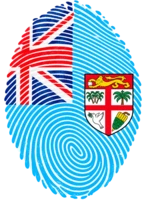
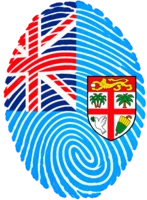
Fiji headers: new flag fingerprint emblem

diff --git a/s.html b/s.html
@@ -309,7 +309,7 @@
               if (!h) return;
               var hero = d.createElement('div'); hero.className = 'tph-hero';
               var art = d.createElement('span'); art.className = 'tph-art'; art.setAttribute('aria-hidden', 'true');
-              var flag = d.createElement('img'); flag.className = 'tph-flag'; flag.src = 'img/fiji/flag-fingerprint.webp'; flag.alt = ''; flag.setAttribute('aria-hidden', 'true');
+              var flag = d.createElement('img'); flag.className = 'tph-flag'; flag.src = 'img/fiji/flag-fingerprint.webp?v=2'; flag.alt = ''; flag.setAttribute('aria-hidden', 'true');
               var text = d.createElement('div'); text.className = 'tph-text';
               h.classList.add('tph-title'); h.textContent = h.textContent.replace(/\s*\u00d7\s*$/, '');
               text.appendChild(h); if (p) text.appendChild(p);

diff --git a/css/fiji-panel-hero.css b/css/fiji-panel-hero.css
@@ -26,7 +26,7 @@
 .tph-hero > .db-panel__label { position: absolute; z-index: 3; }
 .tph-flag {
   /* Fiji flag fingerprint emblem (oval, transparent outside the print). */
-  flex: 0 0 auto; width: auto; height: 78px; aspect-ratio: 143 / 200;
+  flex: 0 0 auto; width: auto; height: 78px; aspect-ratio: 147 / 200;
   border: 0; border-radius: 0; background: none; box-shadow: none; object-fit: contain;
   filter: drop-shadow(0 2px 5px rgba(0,0,0,.35));
 }

diff --git a/js/fiji-panel-hero.js b/js/fiji-panel-hero.js
@@ -3,7 +3,7 @@
    so every script that updates a title or hint keeps working. */
 (function () {
   'use strict';
-  var FLAG = 'img/fiji/flag-fingerprint.webp';
+  var FLAG = 'img/fiji/flag-fingerprint.webp?v=2';
   var TITLE = '.db-section__label, .db-panel__title, .db-leaderboard__title, .db-items-header > h3';
   var HINT = '.db-section__hint, .db-panel__hint, .db-leaderboard__hint';
   function flag() {
